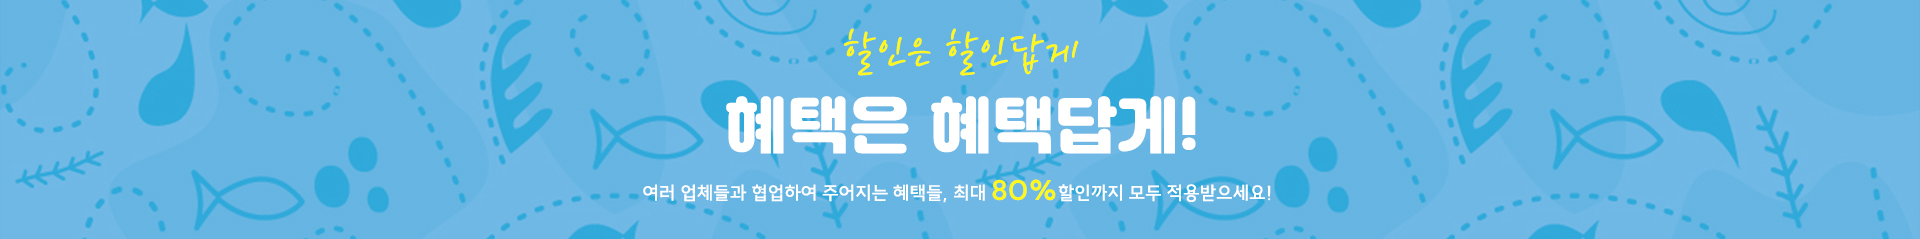
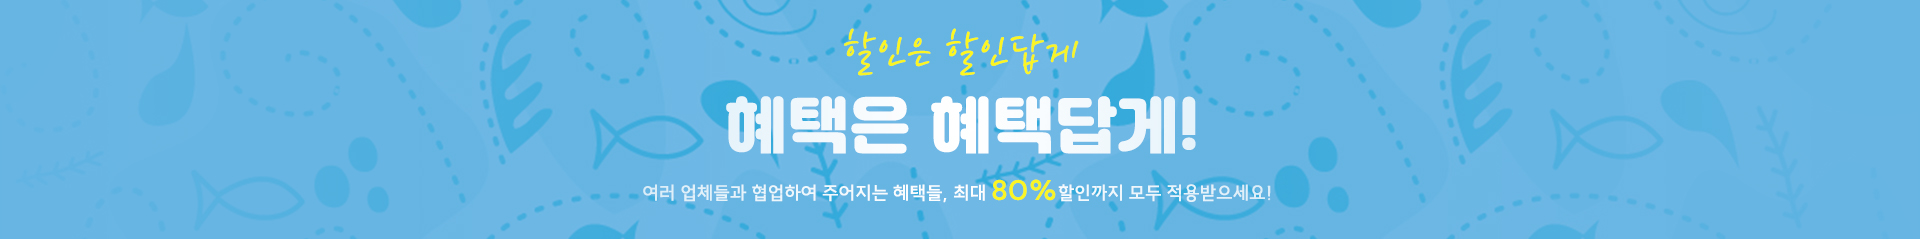
Add files via upload

diff --git a/css/domestic.css b/css/domestic.css
@@ -304,6 +304,12 @@ h5{
 
 
 /* 타임딜 time deal */
+.time_banner{
+  background: url(../images/domestic/timedeal_banner.jpg) no-repeat 50% 50%;
+  width: 100%;
+  height: 269px;
+  background-color: #f7f7f7;
+}
 .time_deal{
     width: 1442px;
     margin: 0 auto;
@@ -549,6 +555,14 @@ h5{
 
 #discount>img{
   width: 100%;
+}
+
+
+.discount_banner{
+  background: url(../images/domestic/discount_banner.jpg) no-repeat 50% 50%;
+  width: 100%;
+  height: 239px;
+  background-color: #67b5e3;
 }
 
 .dis_box{

diff --git a/domestic.html b/domestic.html
@@ -130,8 +130,7 @@
 
 
     <h5 id="deal">타임딜</h5>
-    <div class="time_banner"><img src="./images/domestic/timedeal_banner.jpg" alt="타임딜 배너">
-</div>
+    <div class="time_banner"></div>
 
 <div class="time_deal">
 
@@ -506,7 +505,7 @@
  <div id="discount">
     <h5 id="deal">할인 및 혜택</h5>
 
-    <img src="./images/domestic/discount_banner.jpg" alt="discount banner">
+    <div class="discount_banner"></div>
 
     <div class="dis_box">
         <div class="dis_card">

diff --git a/css/index.css b/css/index.css
@@ -84,10 +84,12 @@ color: transparent;
     background-image: url(../images/oversea_left.jpg);
     position: relative;     
        transition: all 0.5s; 
+       background-size: cover;
 
 }
 .domestic{
     background-image: url(../images/domestic_right.jpg);
+    background-size: cover;
 }
 .left:hover .black_box{
     border: solid white 10px;
